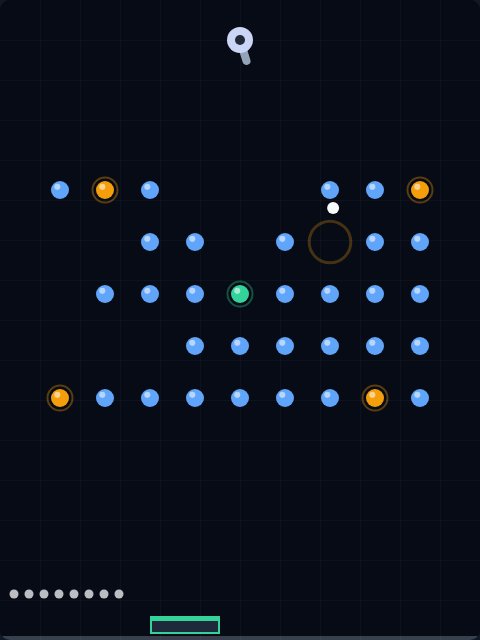
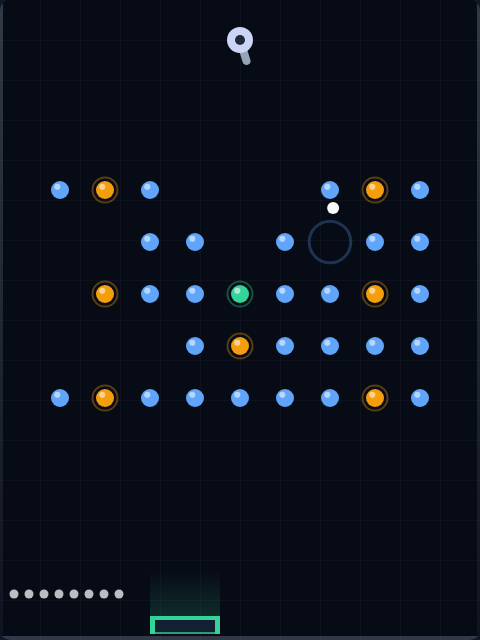
Polish Peg Pop: tighter target density, richer board art
Simulation showed the boards falling too quickly: a greedy aimer cleared
some levels in two of its ten balls. Tightening the orange stride per
level (6, 4, 4, 3, 3) puts 8, 6, 6, 16 and 12 targets on the five boards,
which a strong player clears in three to six shots while random firing
usually finishes a few oranges short.

Visually: a fading ball trail, a proper free-ball bucket with side posts
and a catch-zone glow, and rails down the bouncy side walls. DESIGN.md
records the new densities and how the difficulty was measured, and the
README table now lists the game as Complete.

All 96 Playwright tests pass, including three repeat runs.

Claude-Session: https://claude.ai/code/session_01SixqWPRKgrgZ4gSgTcXCiQ

diff --git a/PegPop/game.js b/PegPop/game.js
@@ -48,6 +48,7 @@ let best = loadBest();
 let pegs = [];
 let ball = null;                     // { x, y, vx, vy, age } while a shot is live
 let pops = [];                       // short-lived hit sparkles, cosmetic only
+let trail = [];                      // recent ball positions, cosmetic only
 let autoRun = true;                  // the animation loop only simulates while true
 const keys = Object.create(null);
 
@@ -74,7 +75,7 @@ function buildLevel(n) {
             for (let row = 0; row < 5; row++) {
                 for (let col = 0; col < 9; col++) pts.push({ x: 60 + col * 45, y: 190 + row * 52 });
             }
-            return assignTypes(pts, 7);
+            return assignTypes(pts, 6);
 
         case 2: // arch narrowing toward the bottom
             [9, 7, 5, 3].forEach((count, row) => {
@@ -82,7 +83,7 @@ function buildLevel(n) {
                 const span = (count - 1) * 46;
                 for (let i = 0; i < count; i++) pts.push({ x: W / 2 - span / 2 + i * 46, y });
             });
-            return assignTypes(pts, 6);
+            return assignTypes(pts, 4);
 
         case 3: // diamond
             [1, 3, 5, 7, 5, 3, 1].forEach((count, row) => {
@@ -90,14 +91,14 @@ function buildLevel(n) {
                 const span = (count - 1) * 44;
                 for (let i = 0; i < count; i++) pts.push({ x: W / 2 - span / 2 + i * 44, y });
             });
-            return assignTypes(pts, 5);
+            return assignTypes(pts, 4);
 
         case 4: // staggered zigzag rows
             for (let row = 0; row < 6; row++) {
                 const offset = row % 2 ? 27 : 0;
                 for (let col = 0; col < 8; col++) pts.push({ x: 50 + col * 54 + offset, y: 190 + row * 52 });
             }
-            return assignTypes(pts, 4);
+            return assignTypes(pts, 3);
 
         default: // two rings over a floor row
             for (let i = 0; i < 12; i++) {
@@ -109,7 +110,7 @@ function buildLevel(n) {
                 pts.push({ x: W / 2 + Math.cos(a) * 110, y: 300 + Math.sin(a) * 110 });
             }
             for (let i = 0; i < 7; i++) pts.push({ x: 90 + i * 50, y: 490 });
-            return assignTypes(pts, 4);
+            return assignTypes(pts, 3);
     }
 }
 
@@ -124,6 +125,7 @@ function loadLevel(n) {
     pegs = buildLevel(n);
     ball = null;
     pops = [];
+    trail = [];
     ballsLeft = BALLS_PER_LEVEL;
     launcher.angle = 0;
     bucket.x = W / 2 - bucket.w / 2;
@@ -153,6 +155,7 @@ function fireBall() {
         age: 0,
     };
     ballsLeft--;
+    trail = [];
     updateHud();
 }
 
@@ -160,6 +163,7 @@ function fireBall() {
 // has come to an end.
 function endShot(caught) {
     ball = null;
+    trail = [];
     if (caught) {
         ballsLeft++;
         bucket.catches++;
@@ -287,6 +291,8 @@ function physicsStep(dt) {
 
     if (ball) {
         ball.age += dt;
+        trail.push({ x: ball.x, y: ball.y });
+        if (trail.length > 16) trail.shift();
         ball.vy += GRAVITY * dt;
         ball.x += ball.vx * dt;
         ball.y += ball.vy * dt;
@@ -454,20 +460,47 @@ function drawLauncher() {
 
 function drawBucket() {
     const { x, y, w, h } = bucket;
-    ctx.fillStyle = '#1e293b';
+
+    // the catch zone, so the player can read where a ball would be saved
+    const glow = ctx.createLinearGradient(0, y - 46, 0, y);
+    glow.addColorStop(0, 'rgba(52, 211, 153, 0)');
+    glow.addColorStop(1, 'rgba(52, 211, 153, 0.16)');
+    ctx.fillStyle = glow;
+    ctx.fillRect(x, y - 46, w, 46);
+
+    ctx.fillStyle = '#132031';
     ctx.fillRect(x, y, w, h);
     ctx.fillStyle = '#34d399';
-    ctx.fillRect(x, y, w, 5);
-    ctx.strokeStyle = '#34d399';
+    ctx.fillRect(x, y, w, 4);
+    ctx.fillRect(x, y, 5, h);          // side posts
+    ctx.fillRect(x + w - 5, y, 5, h);
+    ctx.strokeStyle = 'rgba(52, 211, 153, 0.7)';
     ctx.lineWidth = 2;
     ctx.strokeRect(x + 1, y + 1, w - 2, h - 2);
 
-    ctx.fillStyle = 'rgba(148, 163, 184, 0.35)';
+    ctx.fillStyle = 'rgba(148, 163, 184, 0.3)';
     ctx.fillRect(0, H - 4, W, 4);
+}
+
+// Thin rails down the sides to show the walls a shot can bank off.
+function drawRails() {
+    const rail = ctx.createLinearGradient(0, 0, 0, H);
+    rail.addColorStop(0, 'rgba(148, 163, 184, 0.30)');
+    rail.addColorStop(1, 'rgba(148, 163, 184, 0.06)');
+    ctx.fillStyle = rail;
+    ctx.fillRect(0, 0, 3, H);
+    ctx.fillRect(W - 3, 0, 3, H);
 }
 
 function drawBall() {
     if (!ball) return;
+    trail.forEach((point, i) => {
+        const k = (i + 1) / trail.length;
+        ctx.beginPath();
+        ctx.arc(point.x, point.y, BALL_R * 0.75 * k, 0, Math.PI * 2);
+        ctx.fillStyle = `rgba(226, 232, 240, ${0.22 * k})`;
+        ctx.fill();
+    });
     ctx.beginPath();
     ctx.arc(ball.x, ball.y, BALL_R, 0, Math.PI * 2);
     ctx.fillStyle = '#f8fafc';
@@ -489,6 +522,7 @@ function drawBallsLeft() {
 
 function draw() {
     drawBackground();
+    drawRails();
     drawPegs();
     drawPops();
     drawBucket();

diff --git a/PegPop/DESIGN.md b/PegPop/DESIGN.md
@@ -81,10 +81,15 @@ The best score is written to `localStorage` under `pegpop-best` when a run ends
 
 Board layouts are hand-authored patterns (grid, arch, diamond, zigzag, rings)
 built by `buildLevel(n)`, with peg *types* assigned by a fixed rule rather than
-at random: every `orangeStride`-th peg is orange and the middle peg of the
-pattern is the green one. The stride tightens on later levels (6, 5, 5, 4, 4),
-so later boards carry more targets. Because nothing is random, a given level is
-always the same board, which keeps the Playwright suite deterministic.
+at random: every `stride`-th peg is orange and the middle peg of the pattern is
+the green one. The stride tightens on later levels (6, 4, 4, 3, 3), giving 8, 6,
+6, 16 and 12 orange targets. Because nothing is random, a given level is always
+the same board, which keeps the Playwright suite deterministic.
+
+Difficulty was checked by simulation rather than by feel: a greedy player that
+tries sixty aims per shot and keeps the best clears each board in three to six
+of its ten balls, while a player firing at random usually finishes two to four
+oranges short. Aiming is therefore what decides a run, which is the intent.
 
 ## Controls
 

diff --git a/README.md b/README.md
@@ -123,7 +123,7 @@ For each new game, put it in a new folder. Each game should have its own README.
 | Marble Spiral | [MarbleSpiral/](MarbleSpiral/) | Complete |
 | Barrel Climb | [BarrelClimb/](BarrelClimb/) | Complete |
 | BurgerTime | [BurgerTime/](BurgerTime/) | Complete |
-| Peg Pop | [PegPop/](PegPop/) | In Progress |
+| Peg Pop | [PegPop/](PegPop/) | Complete |
 
 ## Playing
 
